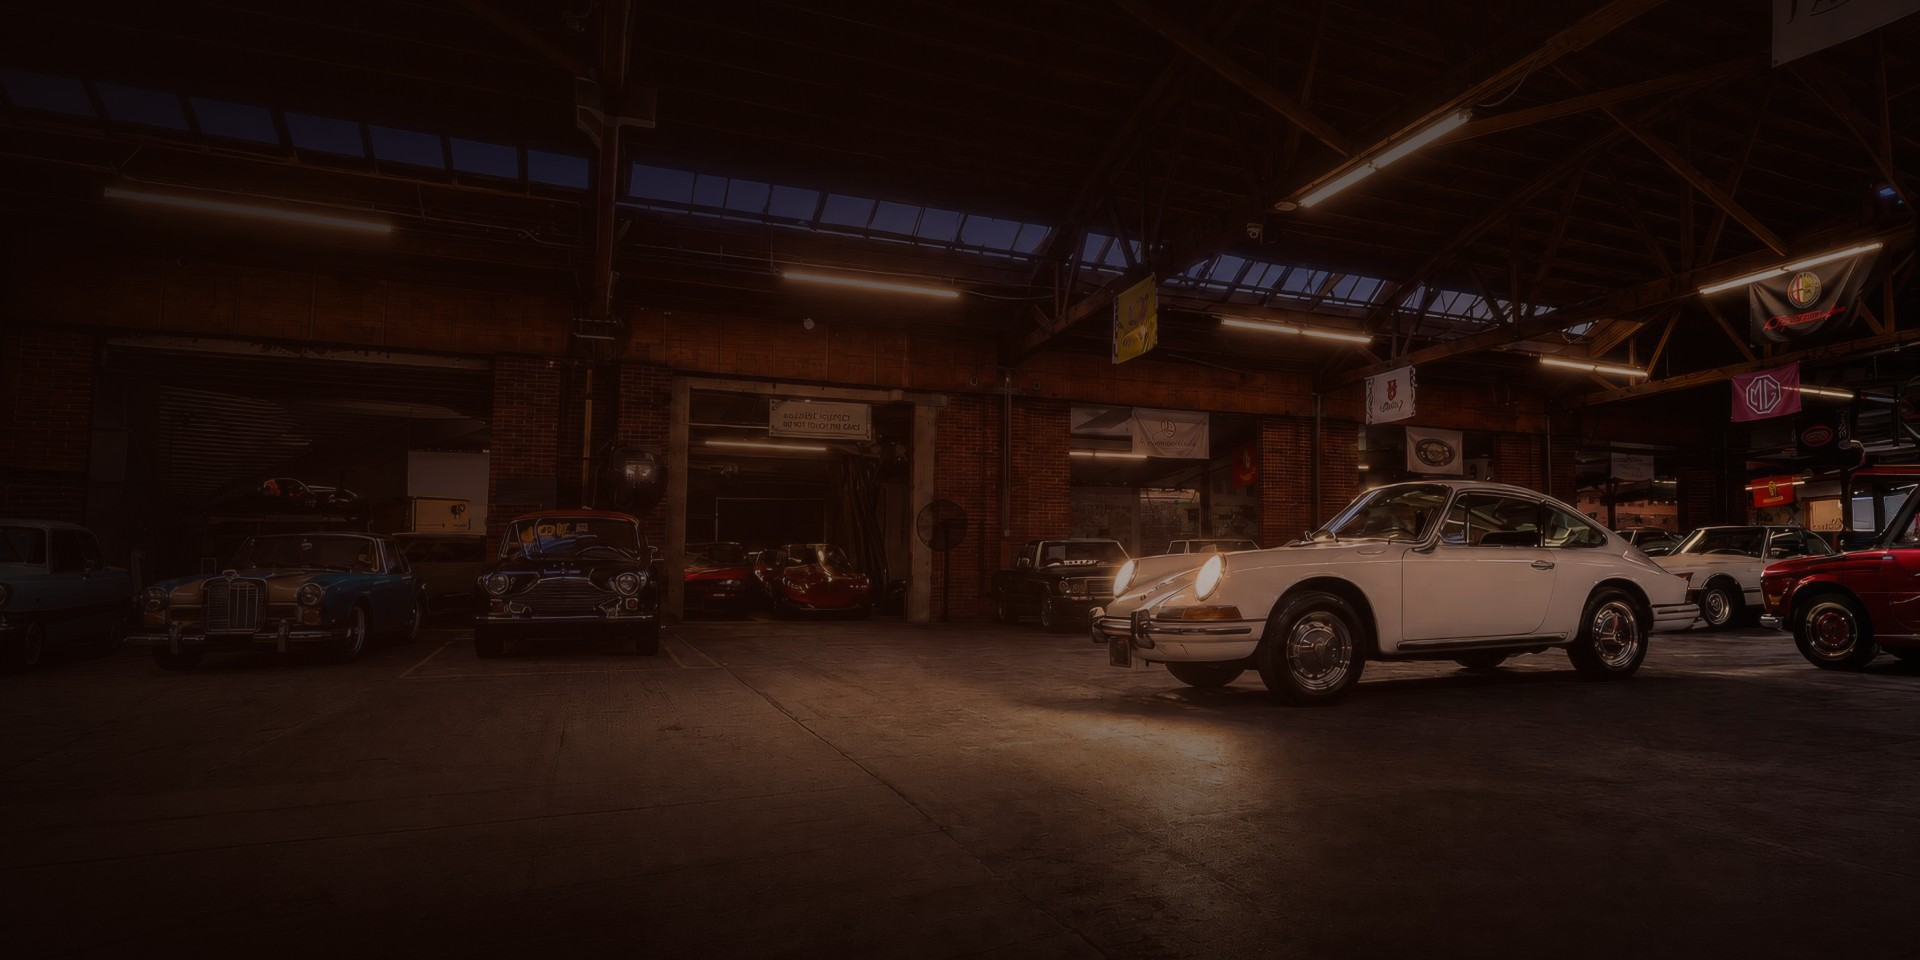
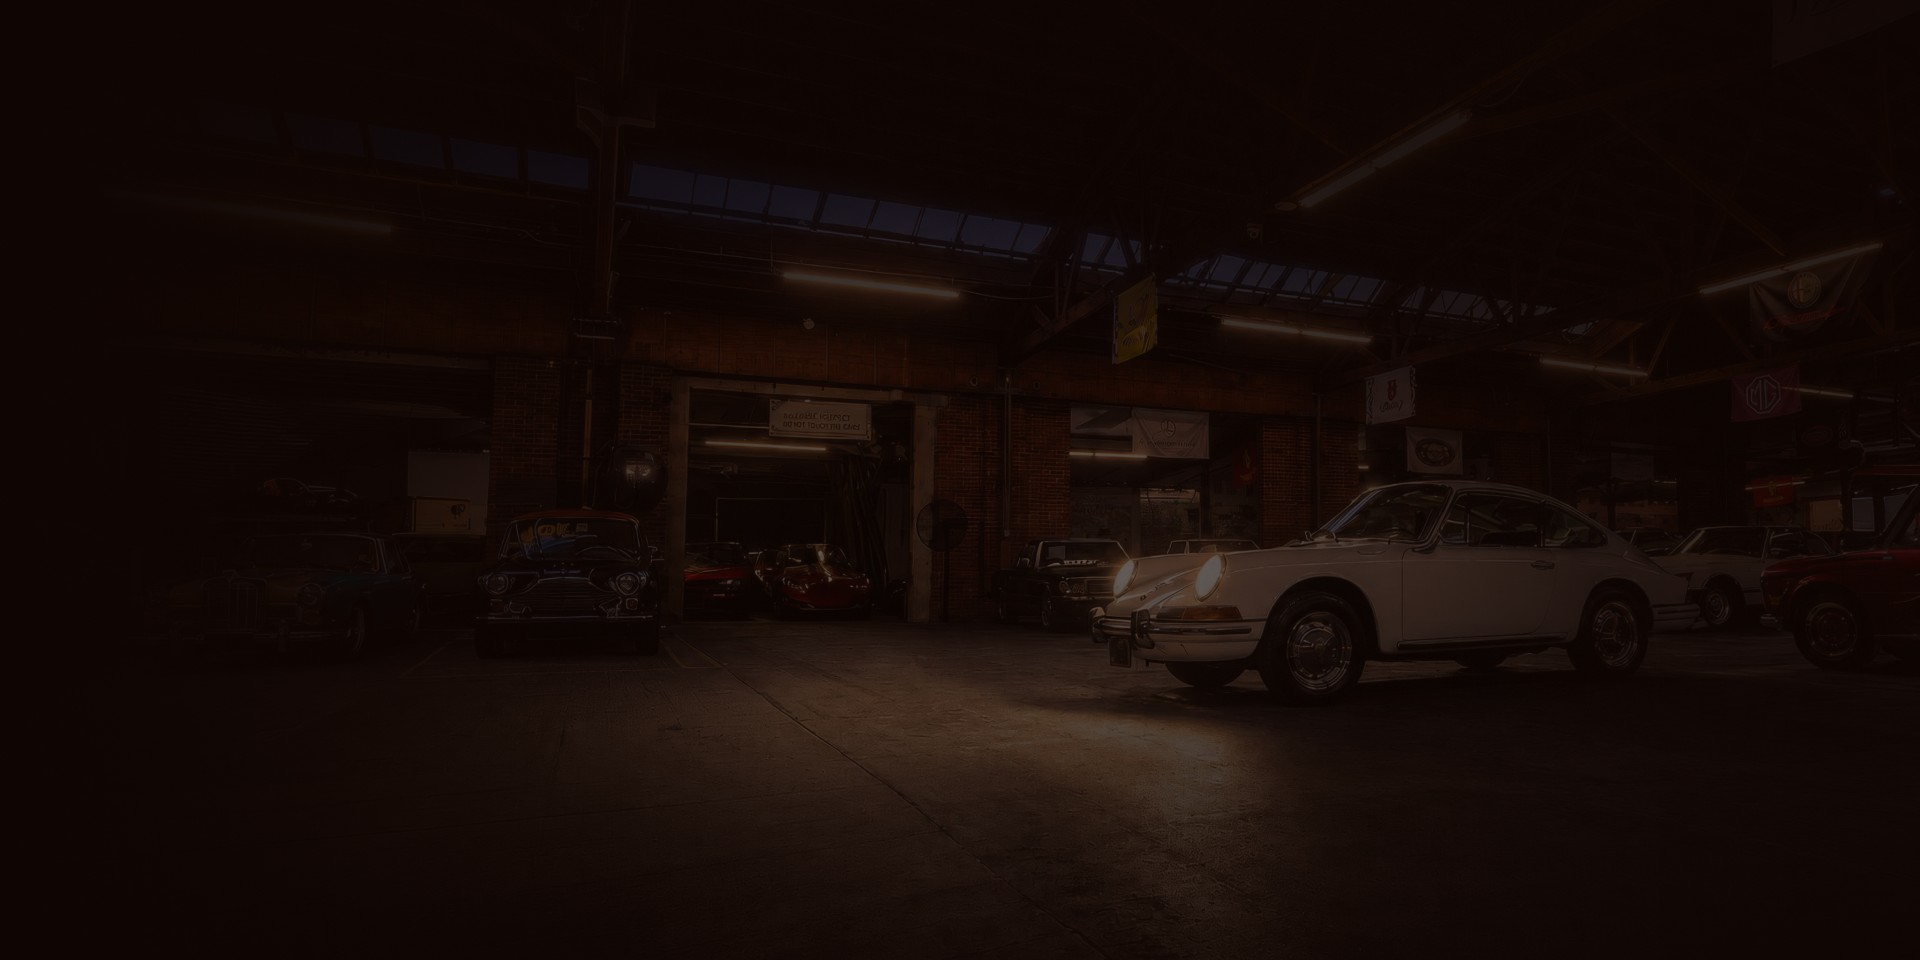
index7: new Figma exports + softer crossfade
Alex replaced both frames and asked for a gentler transition.

Transition: 900ms on --ease -> 1600ms on cubic-bezier(.22,.61,.36,1).
The longer ease-out does most of the travel early and settles slowly,
which is what reads as a dimmer being turned rather than a switch being
thrown. Leaving runs on the same curve so it does not snap back.

PHOTO1 (rest) is now clean by a wide margin — the new export darkened
the left half from a mean of 16.3 to 11.4:

  h2 16.01 / sub 7.62 and 9.05 / trust 6.26   (floors 3.0 / 4.5)

PHOTO2 (hover) still fails, and by the same amount as before, because
its left half is at 25.9 against PHOTO1's 11.4:

  h2 4.62 / sub 1.75 and 2.42 / trust 2.60

Worst points sit at x=34-43% of the frame — the lit doorway and the
floor pool — where the hand-authored gradient has fallen to roughly
0.46-0.53 alpha and needs about 0.82-0.85 to clear. The instruction that
follows from that is simple: bring PHOTO2's LEFT half down to PHOTO1's
level and leave the right half alone. The right side is where the car
and the headlights are and it is supposed to be brighter — that is the
effect. Only the copy column needs to match.

Also corrected a measurement error of my own along the way: an earlier
pass reported these rows passing, using text rects captured in a
different scroll state than the screenshot they were measured against.
Both are now captured in one state and the scroll position is asserted
identical across the pair.

diff --git a/index7.html b/index7.html
@@ -633,7 +633,11 @@
   .sell__bg { position: absolute; inset: 0; z-index: 0; }
   .sell__bg img { width: 100%; height: 100%; object-fit: cover; object-position: 50% 50%; display: block; }
   .sell__frame { position: absolute; inset: 0; }
-  .sell__frame--lit { opacity: 0; transition: opacity 900ms var(--ease); }
+  /* Alex Aug21: softer. 1600ms on a long ease-out, so the room comes up like a dimmer being
+     turned rather than a switch being thrown — the first third of the curve does most of the
+     travel and the last stretch settles slowly, which is what reads as "gentle" rather than
+     simply "slow". Leaving on the same curve so it does not snap back. */
+  .sell__frame--lit { opacity: 0; transition: opacity 1600ms cubic-bezier(.22, .61, .36, 1); }
   .sell.is-lit .sell__frame--lit { opacity: 1; }
   @media (prefers-reduced-motion: reduce) { .sell__frame--lit { transition: none; } }
   /* two-layer scrim: horizontal (dark on the LEFT where the copy sits, fading
